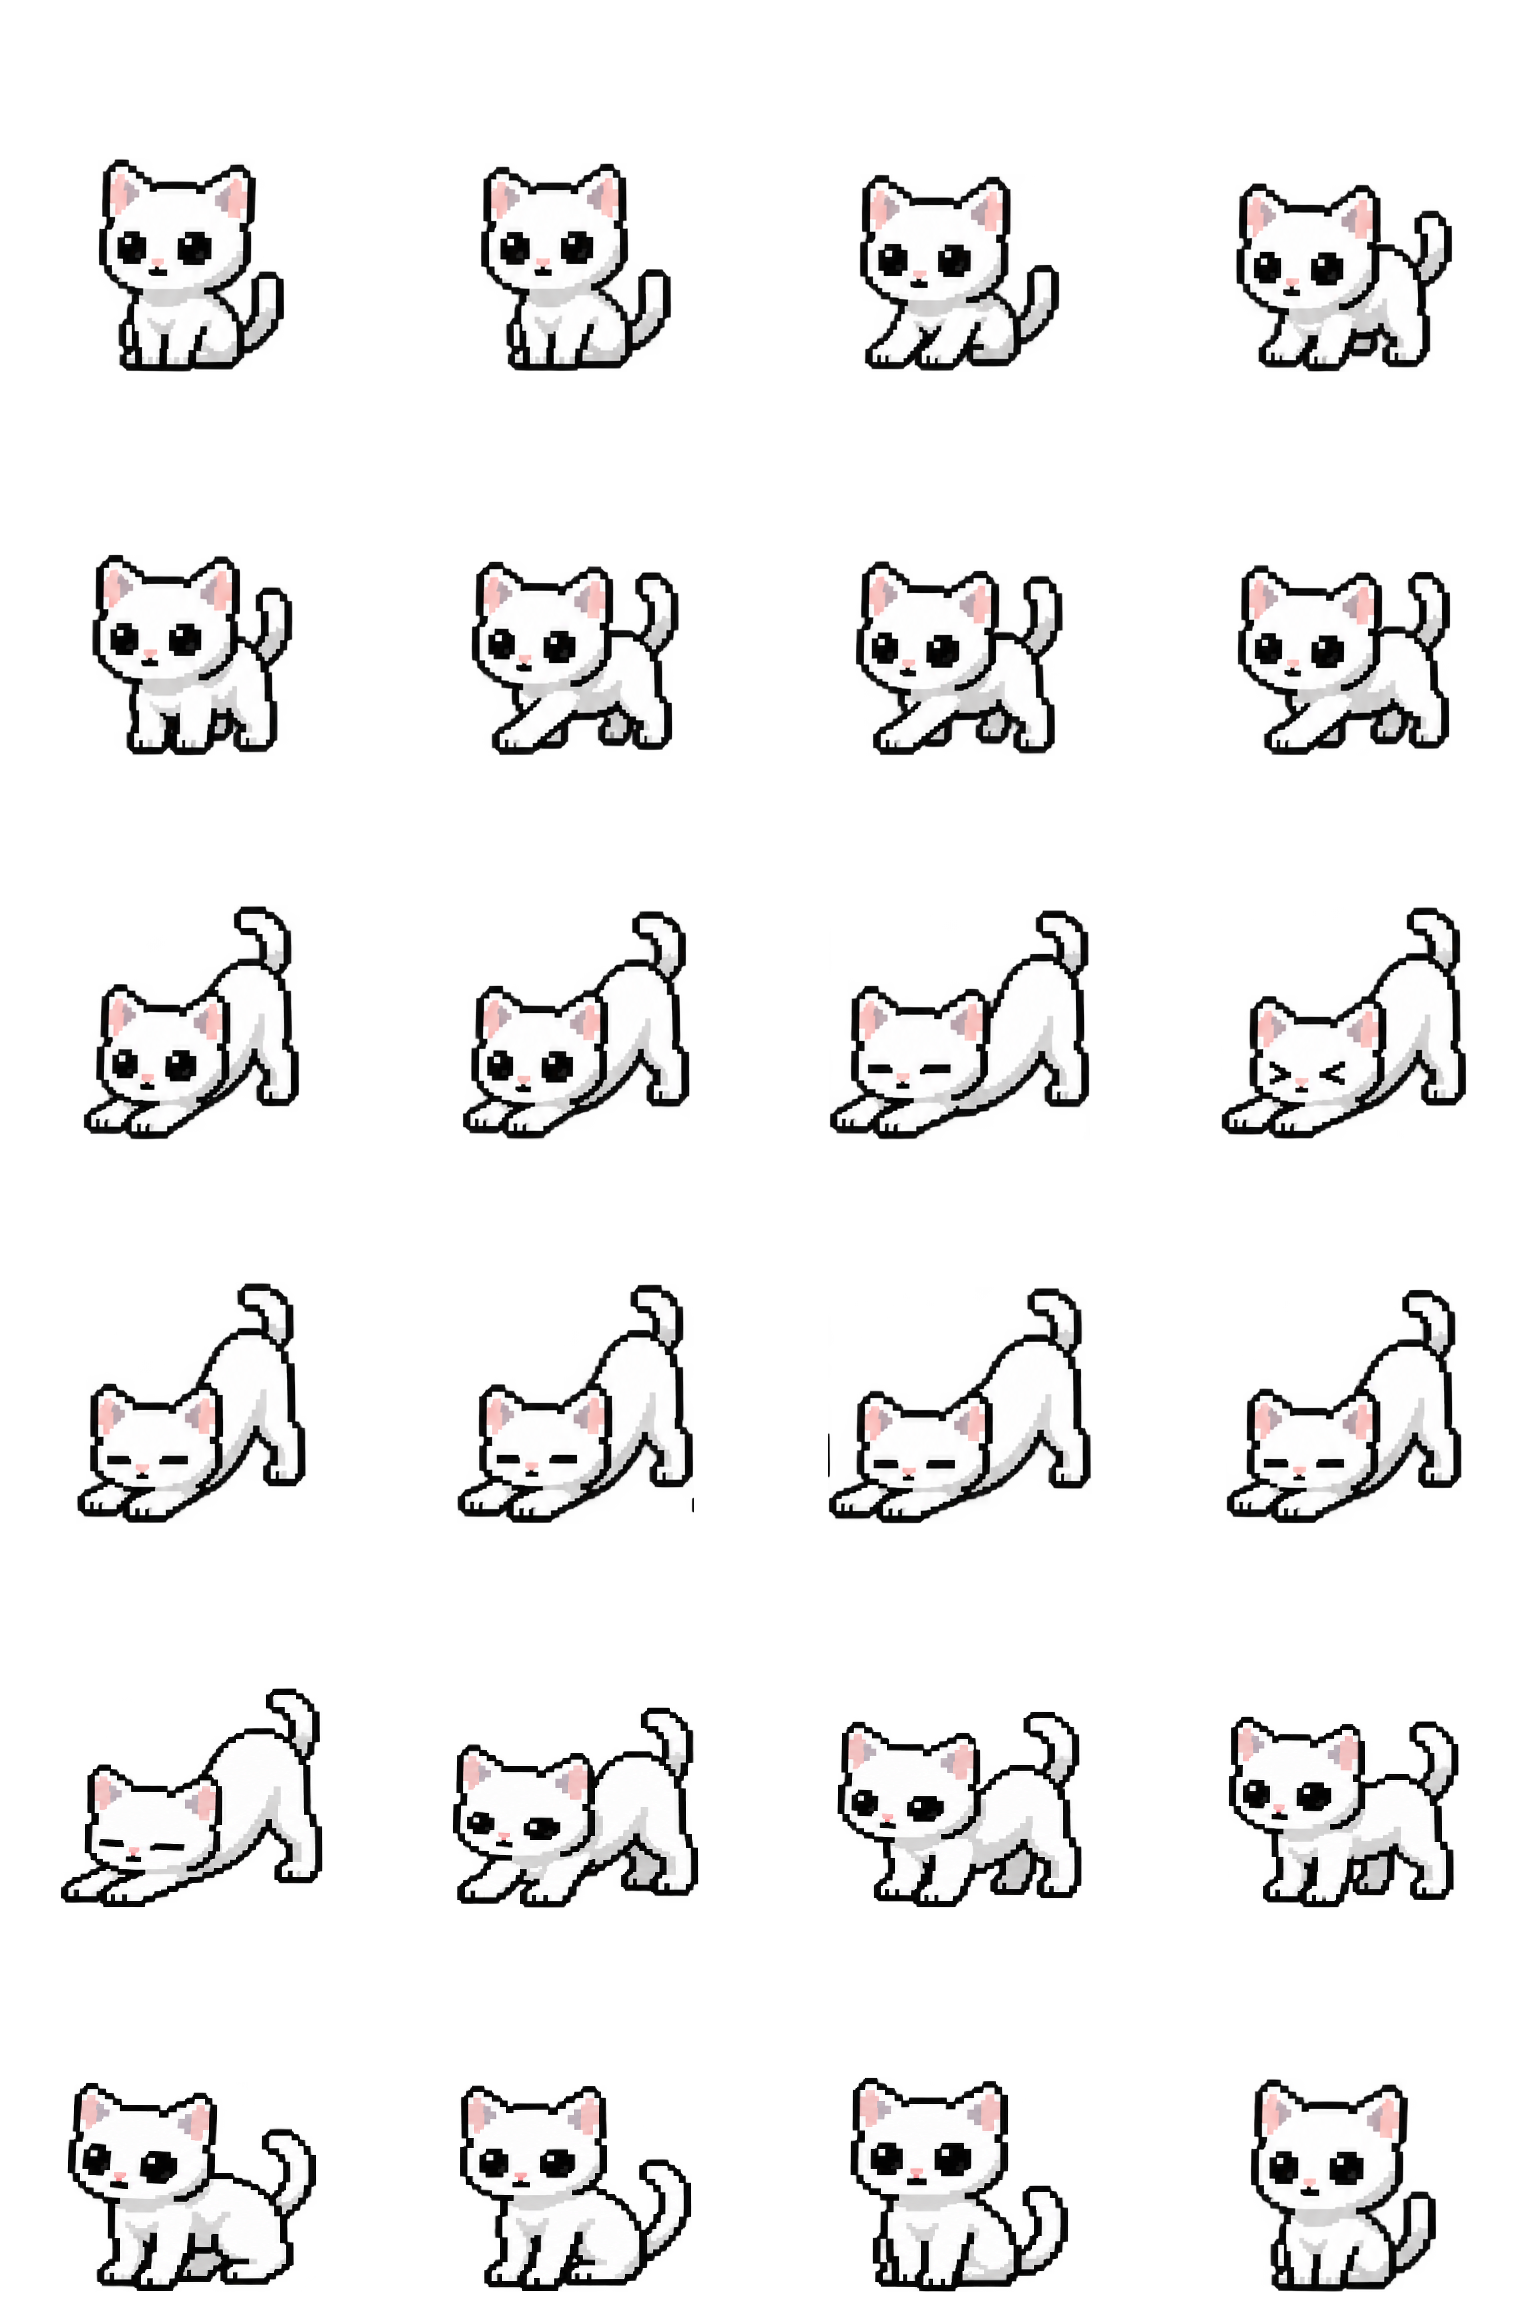
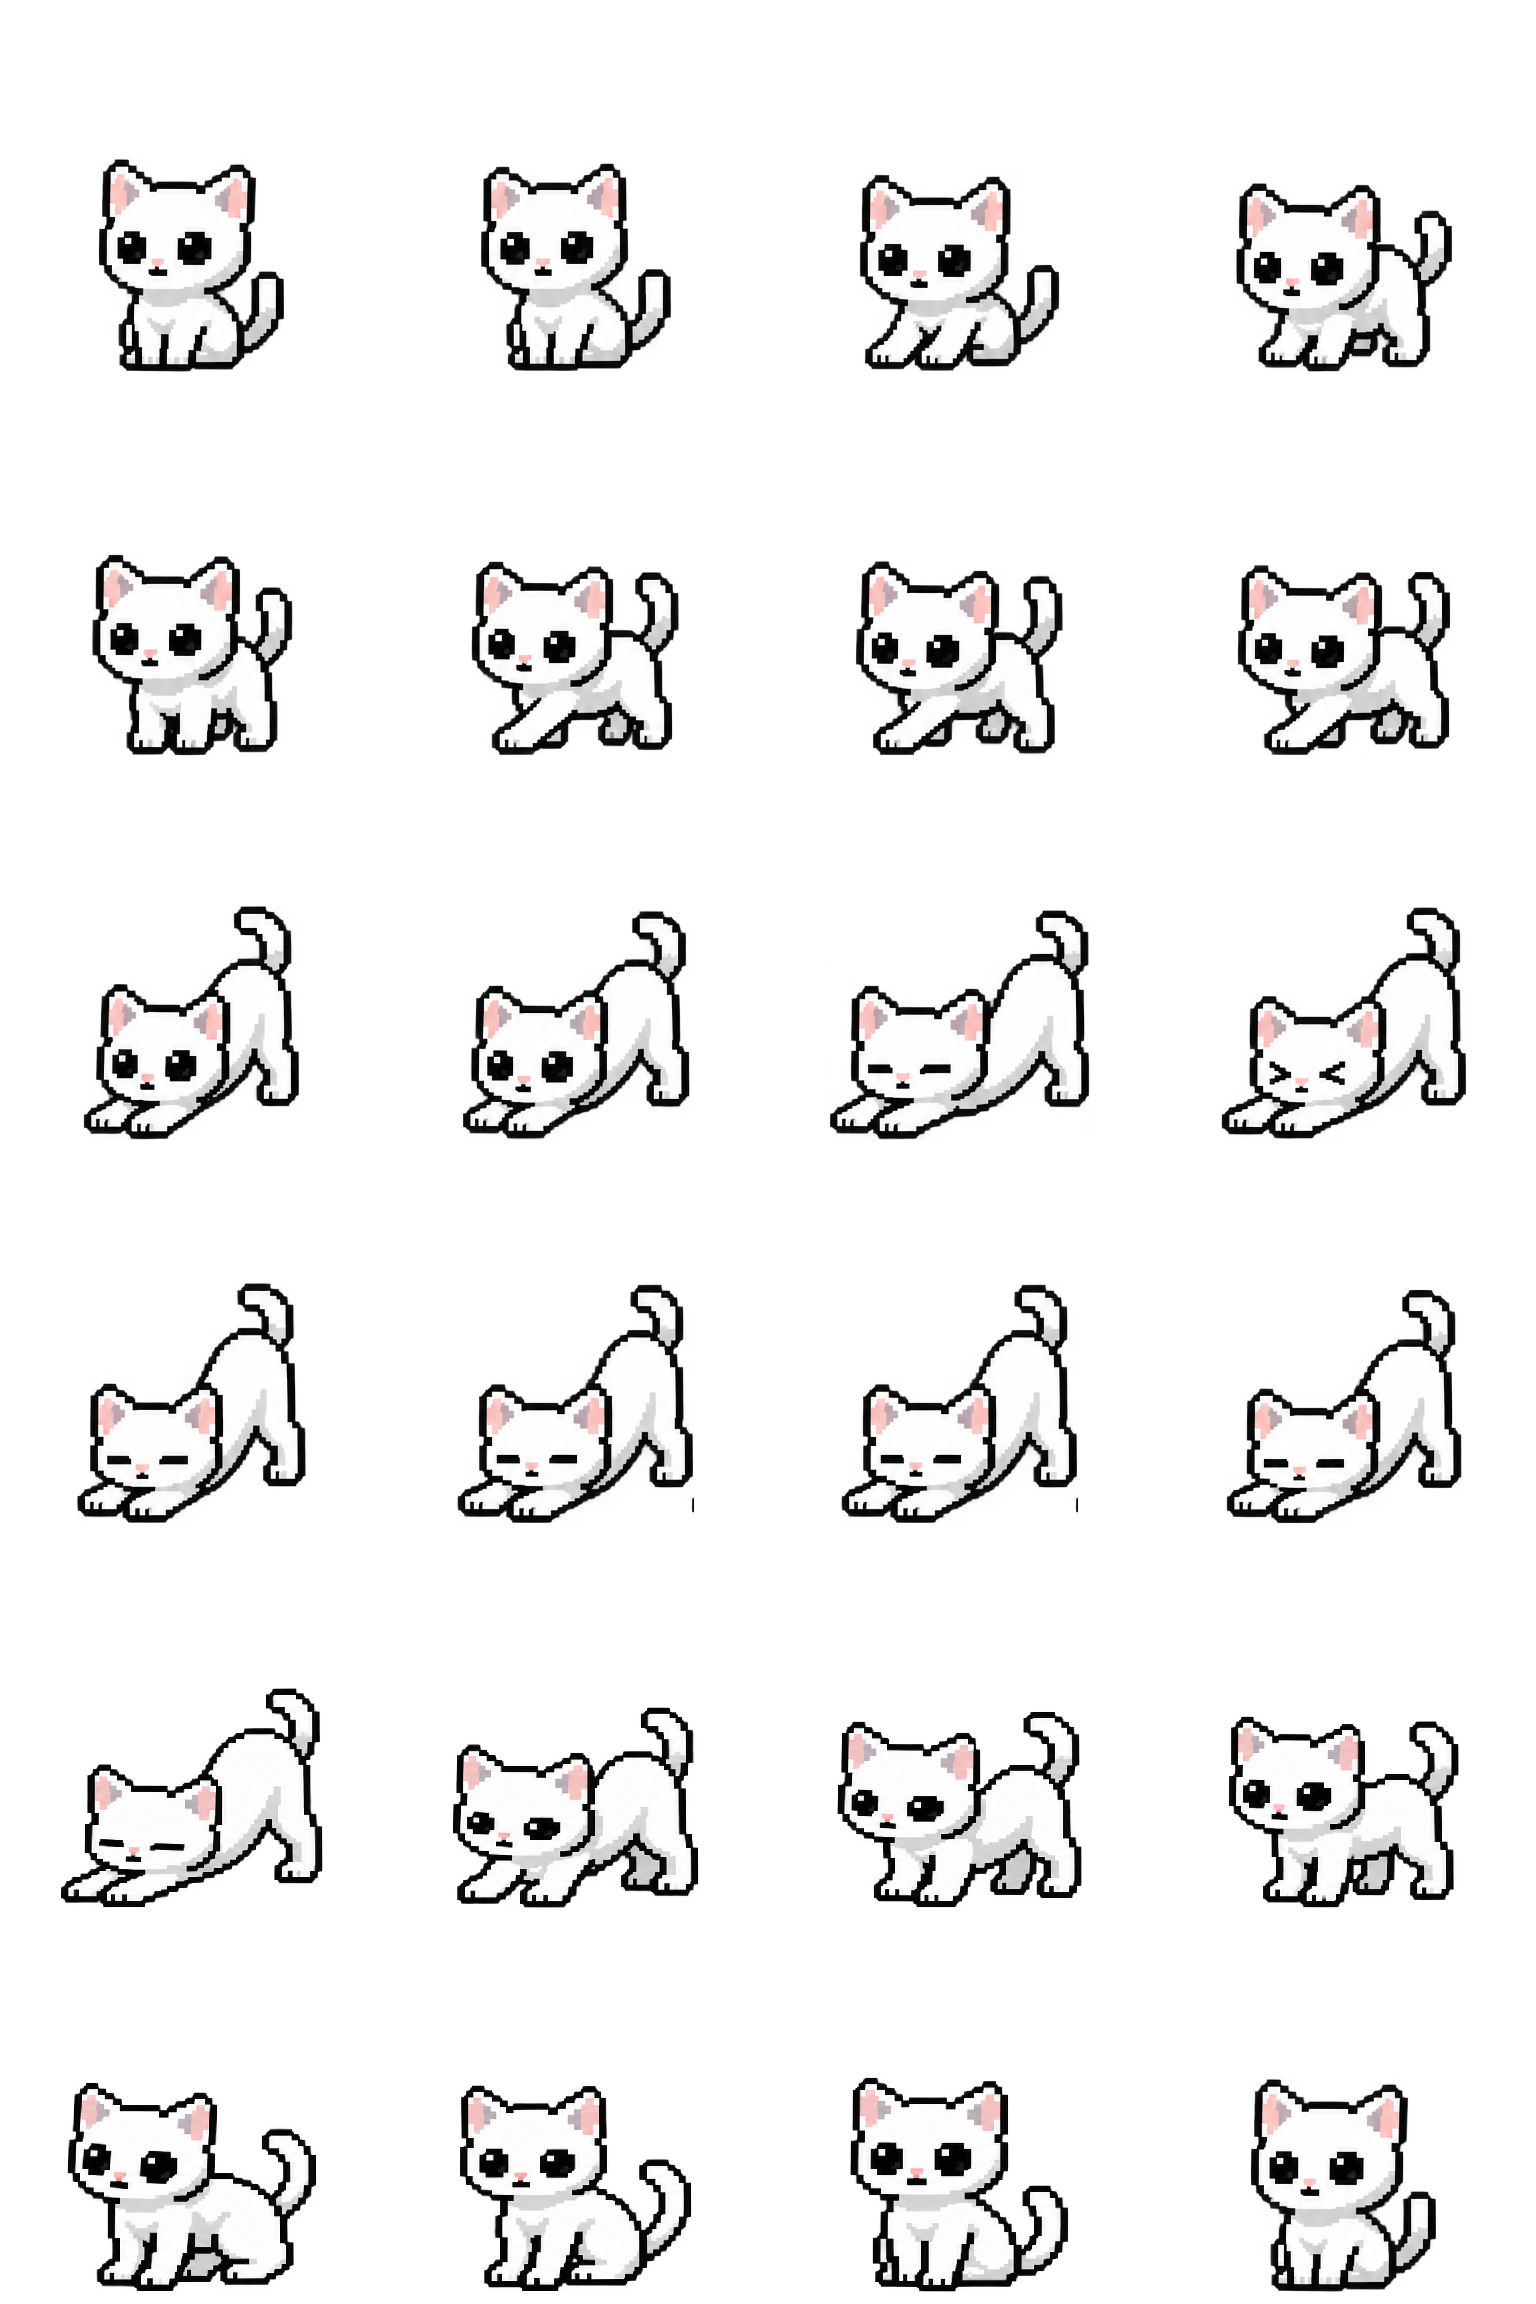
fix: reject stray stretch fragments and verify bundled pet artwork

Changed region(s): [[0.5312, 0.5625, 0.7188, 0.6562]]

diff --git a/test_animations.py b/test_animations.py
@@ -13,6 +13,29 @@ APP = QApplication.instance() or QApplication([])
 
 
 class AnimationTests(unittest.TestCase):
+    def test_pet_drawings_have_no_detached_sheet_fragments(self):
+        atlas = SpriteAtlas(Path(__file__).parent / "assets")
+        for name, rows in PET_ROWS.items():
+            for index in range(rows * 4):
+                image = atlas.frames[CLIPS[name].bank, index // 4, index % 4].toImage()
+                opaque = {(x, y) for y in range(image.height()) for x in range(image.width())
+                          if image.pixelColor(x, y).alpha() >= 128}
+                sizes = []
+                while opaque:
+                    pending = [opaque.pop()]
+                    size = 0
+                    while pending:
+                        x, y = pending.pop()
+                        size += 1
+                        for neighbor in ((x - 1, y), (x + 1, y), (x, y - 1), (x, y + 1),
+                                         (x - 1, y - 1), (x + 1, y - 1), (x - 1, y + 1), (x + 1, y + 1)):
+                            if neighbor in opaque:
+                                opaque.remove(neighbor)
+                                pending.append(neighbor)
+                    sizes.append(size)
+                # Ignore isolated one/two-pixel edge specks, not paw/outline fragments.
+                self.assertEqual(sum(size > 2 for size in sizes), 1, (name, index, sizes))
+
     def test_drawn_neutral_recovery_matches_the_idle_head_position(self):
         atlas = SpriteAtlas(Path(__file__).parent / "assets")
         idle = atlas.frame("idle", 0).toImage()

diff --git a/test_packaging.py b/test_packaging.py
@@ -1,6 +1,7 @@
 """Opt-in checks for the real Windows executable; no API calls or startup changes."""
 
 import os
+import hashlib
 from pathlib import Path
 import subprocess
 import time
@@ -16,7 +17,7 @@ class PackagingTests(unittest.TestCase):
     def test_bundle_has_art_and_ai_but_no_credentials_or_foreign_icu(self):
         from PyInstaller.archive.readers import CArchiveReader
         archive = CArchiveReader(str(self.exe))
-        names = {name.replace("\\", "/") for name in archive.toc}
+        names = {name.replace("\\", "/"): name for name in archive.toc}
         self.assertIn("assets/neko_idle.png", names)
         for bank in ("idle", "pets", "activity", "movement"):
             self.assertIn(f"assets/neko-{bank}-v3.png", names)
@@ -28,6 +29,9 @@ class PackagingTests(unittest.TestCase):
         for reaction in ("happy", "nuzzle", "knead", "chin_scritch", "roll", "paw_offer", "ear_rub",
                          "pet_stretch", "back_arch", "happy_hop", "side_flop", "shoulder_peek"):
             self.assertIn(f"assets/neko-pet-{reaction}-v1.png", names)
+            asset = f"assets/neko-pet-{reaction}-v1.png"
+            self.assertEqual(hashlib.sha256(archive.extract(names[asset])).hexdigest(),
+                             hashlib.sha256((Path(__file__).parent / asset).read_bytes()).hexdigest(), asset)
         self.assertNotIn("assets/neko-pet-blep-v1.png", names)
         self.assertIn("assets/neko-tailplay-v4.png", names)
         self.assertIn("assets/neko-tailsettle-v1.png", names)
